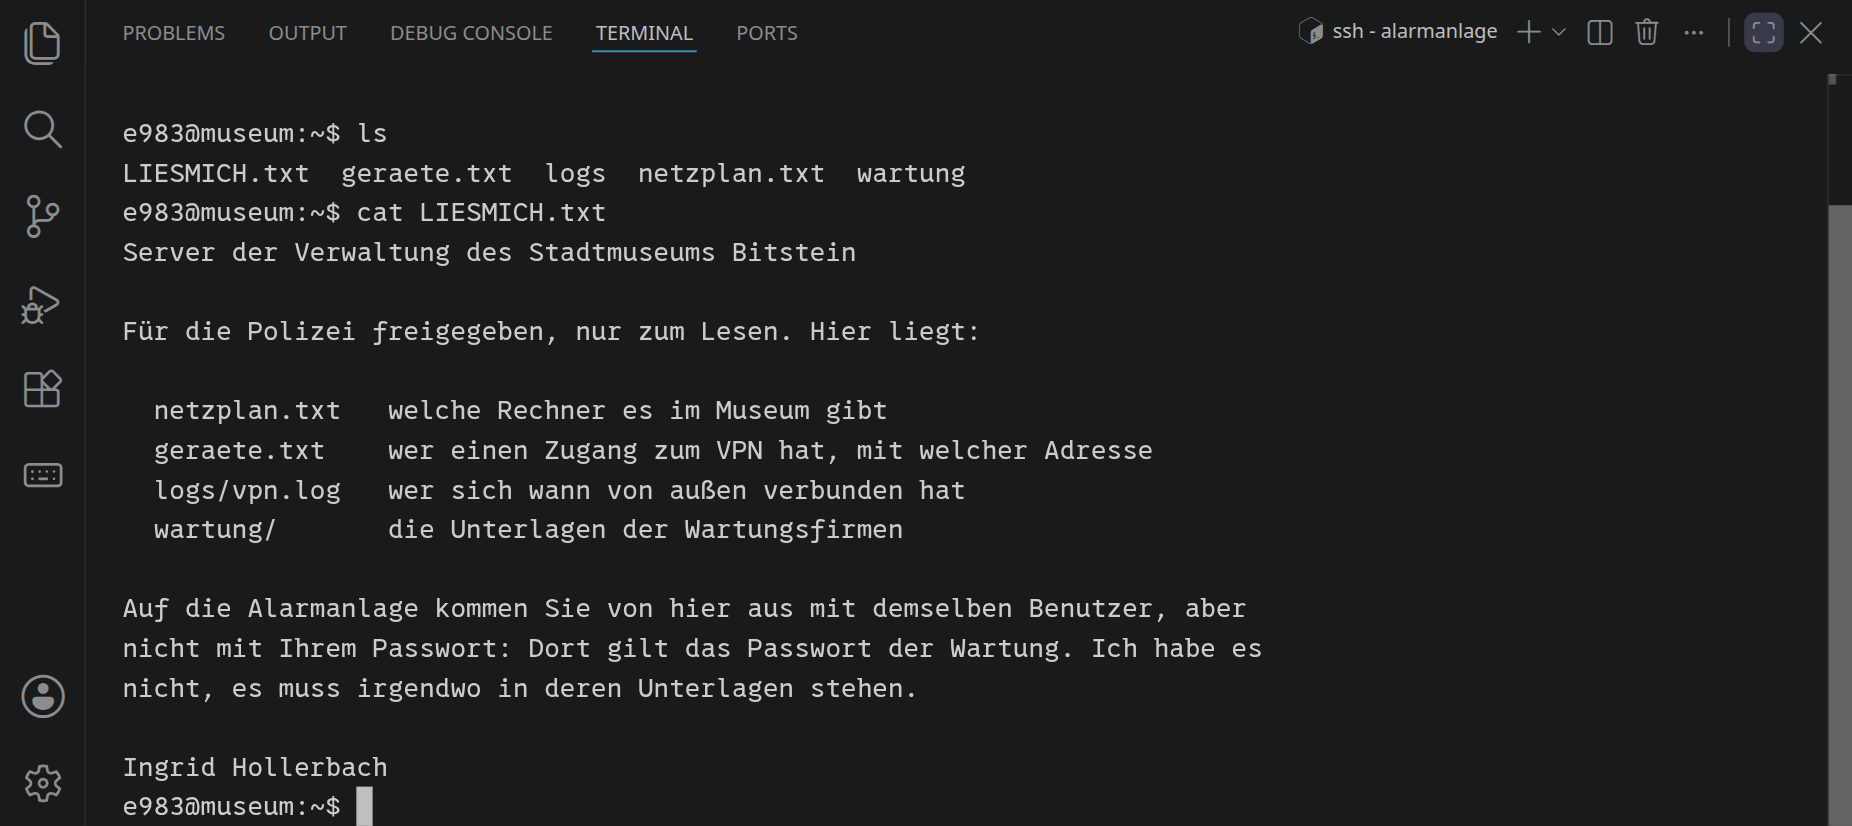
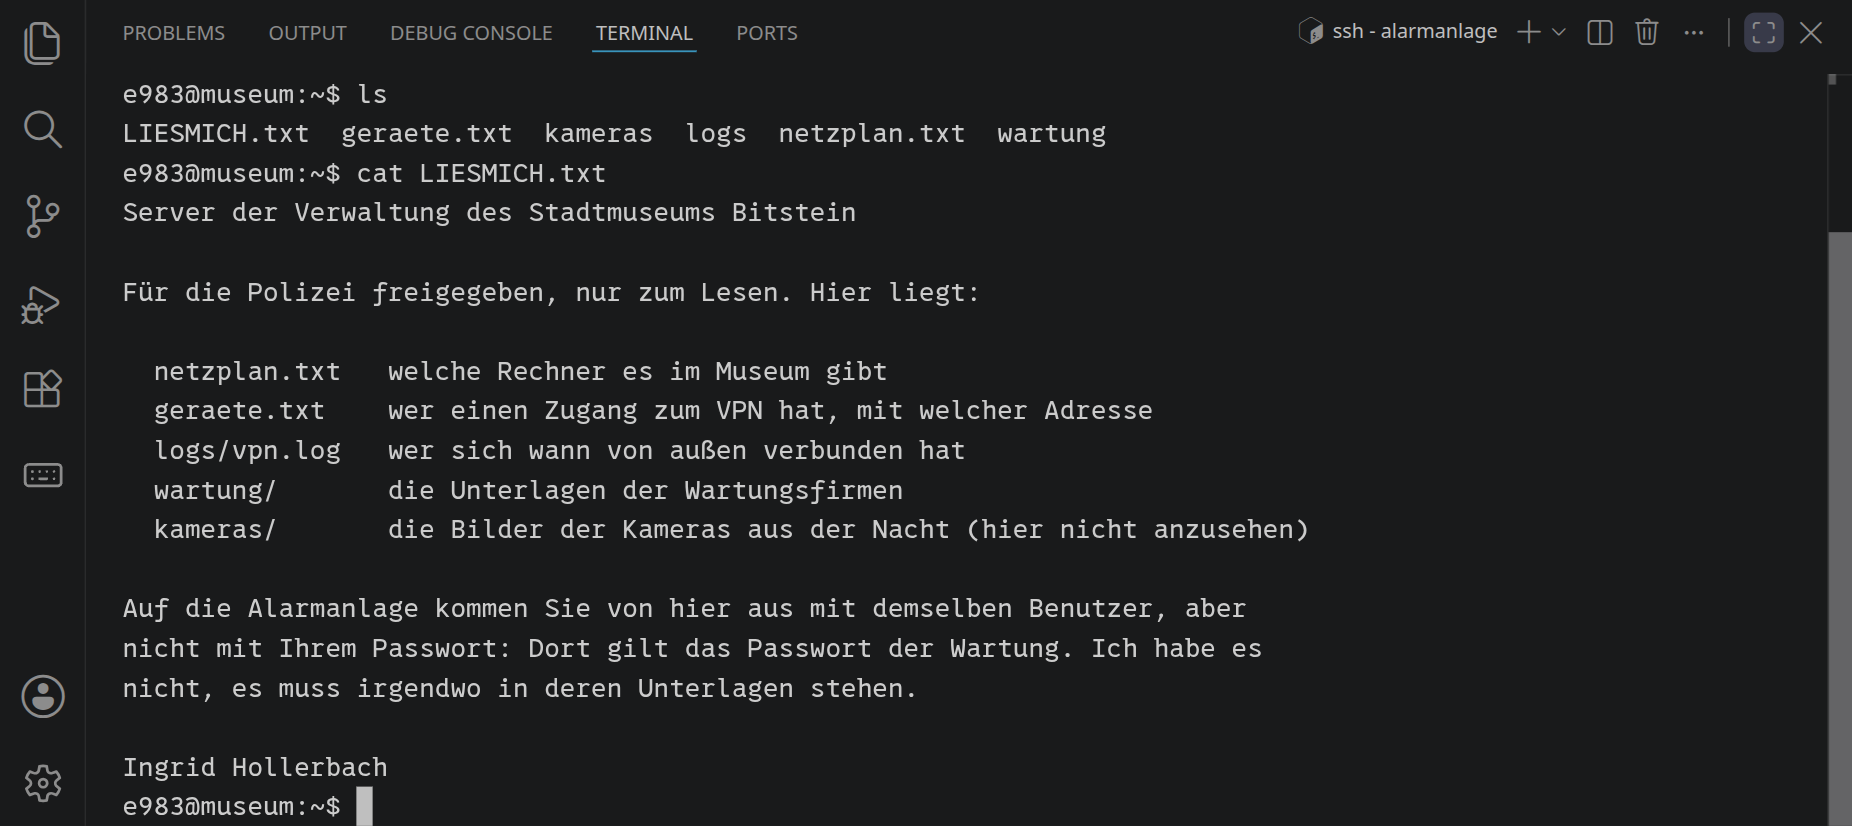
Ein Krimi im Terminal: »Die Kameras«, with scp, wildcards and pictures
A new section after »Beweise sichern«: on museum.bitstein, ls and a time
pattern like cam3_20260314_2338* pick frames from kameras/, scp with the
* in quotes copies them, and VS Code shows them. Two tasks: the frames of
camera 1 in bitstein/kameras/ (files check, with examples), and which of
the four yellow cars camera 3 shows (only BS-KR 2417 is an estate car).

The case image sets each frame's time from its name, so ls -l shows the
night. In the screenshot generator, open-file waits for VS Code's image
preview when it opens a picture instead of a text editor.

diff --git a/src/tutorial-screenshots/server.js b/src/tutorial-screenshots/server.js
@@ -1896,7 +1896,25 @@ async function openFile(relativePath) {
         { timeout: 20_000 },
     );
 
-    await waitForEditorSettled(workspace);
+    if (IMAGE_FILE.test(basename)) await waitForImagePreview(workspace);
+    else await waitForEditorSettled(workspace);
+}
+
+// VS Code shows a picture in its image preview, a webview, not in a text
+// editor. Its content lives in an iframe of another origin, so wait for the
+// visible webview to be ready and give the picture a moment to paint.
+const IMAGE_FILE = /\.(png|jpe?g|gif|webp|bmp|ico)$/i;
+
+async function waitForImagePreview(page) {
+    await page.waitForFunction(
+        () => [...document.querySelectorAll('iframe.webview')].some(frame => {
+            const rect = frame.getBoundingClientRect();
+            return rect.width > 0 && rect.height > 0 && frame.classList.contains('ready');
+        }),
+        null,
+        { timeout: 20_000 },
+    );
+    await page.waitForTimeout(1_500);
 }
 
 async function goLive(hooks) {

diff --git a/src/content/terminal-mystery/beispiele/make_case.rb b/src/content/terminal-mystery/beispiele/make_case.rb
@@ -25,6 +25,8 @@
 #   the cars: Konstantin Reuter and Marlene Voss. alarmanlage/: the commit
 #   »Wartung beendet« deletes two lines of card 4471, which karten.txt gives
 #   to Elektro Reuter. personen.txt: Konstantin Reuter is the electrician.
+#   On museum.bitstein, kameras/ (from cctv/): camera 3 shows a yellow
+#   estate car at 23:38, and of the four cars only BS-KR 2417 is a Kombi.
 require 'fileutils'
 require 'open3'
 require 'tmpdir'
@@ -623,13 +625,7 @@ MUSEUM_README = <<~TEXT
       geraete.txt    wer einen Zugang zum VPN hat, mit welcher Adresse
       logs/vpn.log   wer sich wann von außen verbunden hat
       wartung/       die Unterlagen der Wartungsfirmen
-      kameras/       die Bilder der drei Kameras aus der Nacht, 23 bis 24 Uhr
-
-    Die Kameras nehmen nur auf, wenn sich etwas bewegt, dann alle drei
-    Sekunden ein Bild: cam1 in der Ausstellung, cam2 am Hintereingang, cam3
-    am Parkplatz. Der Name sagt, welche Kamera wann: cam2_20260314_231202.jpg
-    ist Kamera 2 um 23:12:02. Die am Parkplatz springt auch bei Regen an.
-    Ansehen kann ich die Bilder hier nicht, der Server hat keinen Bildschirm.
+      kameras/       die Bilder der Kameras aus der Nacht (hier nicht anzusehen)
 
     Auf die Alarmanlage kommen Sie von hier aus mit demselben Benutzer, aber
     nicht mit Ihrem Passwort: Dort gilt das Passwort der Wartung. Ich habe es

diff --git a/src/content/terminal-mystery/lehrkraft.md b/src/content/terminal-mystery/lehrkraft.md
@@ -1,7 +1,7 @@
 Ein Kriminalfall, der sich nur im Terminal lösen lässt: Aus dem Stadtmuseum Bitstein ist die Goldene Diskette verschwunden, und die Akten sind zu groß zum Durchlesen. Jedes Kapitel bringt ein Werkzeug und setzt es sofort ein: `wc -l`, `grep` mit `^`, `-i`, `-c` und `-l`, `head | tail` für eine bestimmte Zeile, eine Kette aus `grep`, `sort | uniq -d` für die Schnittmenge zweier Listen, `>` und `>>` für Notizen und zum Schluss `git log --author` und `git show` in einem Repository, in dem ein Commit mit harmloser Nachricht zwei Zeilen löscht. Vorausgesetzt werden »Dateien und Verzeichnisse« (`cd`, `ls`, `cat`, `less`) und von »Versionsverwaltung mit Git«, was ein Commit ist. Die Idee stammt aus »The Command Line Murders« von Noah Veltman; Fall, Stadt und Akten sind neu und auf Deutsch.
 
 <table class='table'>
-<tr><th>Ablauf</th><td>Erste Doppelstunde: die Akten, der Tatort mit <code>grep</code>, die Zeugin mit <code>head | tail</code>, der Nachtwächter mit <code>grep -l</code>. Zweite: das Auto, die Vereine, die Alarmanlage mit Git, die Auflösung; danach ein eigener Fall für die Nachbarin oder den Nachbarn. Wer schnell ist, löst alles in einer Doppelstunde.</td></tr>
+<tr><th>Ablauf</th><td>Erste Doppelstunde: die Akten, der Tatort mit <code>grep</code>, die Zeugin mit <code>head | tail</code>, der Nachtwächter mit <code>grep -l</code>. Zweite: das Auto, die Vereine, die Alarmanlage mit Git, die Auflösung; mit dem Fallserver außerdem <code>ssh</code>, <code>scp</code> und die Kameras; danach ein eigener Fall für die Nachbarin oder den Nachbarn. Wer schnell ist, löst alles in einer Doppelstunde.</td></tr>
 <tr><th>Dateien</th><td><code>/workspace/bitstein</code>, entpackt aus <code>bitstein.tar.gz</code> (200 kB, von dieser Installation unter <code>/terminal-mystery/bitstein.tar.gz</code>). <code>beispiele/make_case.rb</code> in diesem Repository baut die Akten aus einem festen Startwert neu und gibt die Zahlen aus, die die Aufgaben brauchen; die Commits der Alarmanlage haben feste Zeiten, ihre Hashes bleiben gleich.</td></tr>
 <tr><th>Prüfung</th><td>Die Befehlsaufgaben führen den eingetippten Befehl im Workspace aus, als Gast in <code>/workspace</code>, und prüfen die Ausgabe: wie viele Zeilen und wie jede aussieht. Ob <code>grep</code>, <code>sed -n 23p</code> oder <code>awk</code>, jeder Weg zur richtigen Ausgabe zählt. Git lässt sich so nicht prüfen (das Repository gehört nicht dem Gast); dort wird die Karte abgefragt.</td></tr>
 </table>
@@ -15,3 +15,5 @@ Ein Kriminalfall, der sich nur im Terminal lösen lässt: Aus dem Stadtmuseum Bi
 **Die Aufgaben.** »Die Hinweise«, »Die Zeugin«, »Das gelbe Auto« und »In beiden Vereinen« sind Befehle, deren Ausgabe geprüft wird; die Rückmeldungen erkennen typische Fehler (das Schild, Hausnummer 32, ein Kennzeichen ohne 7, `uniq -c`). »Groß oder klein« fragt 181 ab, »Der Nachtwächter« die Nummer 1290, »Zwei Verdächtige« ist eine Auswahl, »Die gelöschte Karte« fragt 4471 ab und »Wer war es?« den Namen, mit eigenen Rückmeldungen für Marlene Voss und die anderen Reuters. »Ein eigener Fall« ist eine Abgabe des Ordners `mein-fall`, mit `LIESMICH.txt` und `LOESUNG.txt`. Die Seite zeigt eine Schleife, die Hunderte verschiedener Befragungen aus Listen zusammenwürfelt (Bash-Arrays und `$RANDOM`): So verschwindet die eine Aussage, auf die es ankommt, ohne dass jemand tausend Dateien von Hand schreibt. Mit der `LOESUNG.txt` lässt sich ein Fall nachvollziehen, ohne ihn selbst zu lösen.
 
 **Beweise vom Server.** Hat die Installation den Fallserver eingeschaltet (`CASE_SERVER = true`, docs/entwicklung.md), gibt es ein Kapitel mehr, sonst fehlt es samt seinen Aufgaben. Reuter streitet ab, und die Beweise liegen auf zwei SSH-Servern: Auf `museum.bitstein` zeigt `logs/vpn.log` eine Verbindung der Wartung um 23:02 Uhr von 10.8.0.23, und `geraete.txt` gibt diese Adresse dem Laptop von Elektro Reuter. Die Alarmanlage erreicht man nur über das Museum, mit `ssh` von dort oder mit `ssh -J`, und zwar mit dem Passwort der Wartung, `Leuchtturm-2024`: Es steht im Übergabeprotokoll in `wartung/uebergabe-2025.txt` auf dem Museumsserver (`grep -ri passwort wartung`), gesetzt von Elektro Reuter beim Einbau und nie geändert. Dort ist außerdem noch jemand angemeldet: `who` zeigt `wartung` von 10.8.0.23, dem Laptop von Elektro Reuter, und `ps aux` dessen `rm -i /home/wartung/.bash_history`, das auf ein »yes« wartet. Gelöscht wird nichts: Die Datei und ihr Verzeichnis gehören `root`, und `kill` dürfen Lernende nur ihre eigenen Prozesse; der Prozess läuft für alle gleich, solange der Server läuft. In `/home/wartung/.bash_history` stehen die Befehle der Nacht, minutengenau neben den Commits, darunter `sed -i '/4471/d' zugaenge.log`. Mit `scp -J` landet die Datei als `bitstein/beweis.txt` im Workspace, und die Aufgabe prüft sie dort. Jede Person hat einen eigenen Zugang zum Museumsserver: Wer die Akten in seinem Workspace herunterlädt, findet ihn in `bitstein/zugang-museum.txt`. Fehlt die Datei (die Akten kamen von woanders, oder der Server war noch aus), holt der Befehl auf der Seite sie nach. Beim Passwort erscheint nichts, auch keine Sternchen; das irritiert oft. `scp` gehört in den eigenen Workspace, nicht in eine Verbindung zum Museum. In einer Prüfung gibt es kein Netz und darum auch keinen Zugang.
+
+**Die Kameras.** Auf dem Museumsserver liegen in `kameras/` 66 Bilder dreier Kameras aus der Stunde von 23 bis 24 Uhr, benannt nach Kamera und Zeit (`cam2_20260314_231202.jpg`). Kamera 2 am Hintereingang zeigt jemanden mit Kapuze um 23:12 hereinkommen und um 23:38 hinausgehen, beides direkt nach der Karte 4471; Kamera 1 in der Ausstellung den Diebstahl um 23:31; Kamera 3 am Parkplatz einen gelben Kombi, der ohne Licht ausparkt. Ein Gesicht sieht man nie: Die Bilder belegen die Zeiten und das Auto. Von den vier gelben Autos der Zeugin ist nur `BS-KR 2417` ein Kombi, das von Konstantin Reuter. Kamera 3 springt auch bei Regen an, darum hat sie 49 Bilder; die vier der Minute 23:38 holt `scp 'e123@museum.bitstein:kameras/cam3_20260314_2338*' ~/bitstein/kameras/`. Ohne die Anführungszeichen setzt die eigene Shell das `*` ein, findet nichts und gibt es zum Glück unverändert weiter; das klappt, ist aber Zufall und lohnt eine Frage im Unterricht. Geöffnet werden die Bilder im Explorer von VS Code, nicht im Terminal. Die Bilder entstanden mit ChatGPT, wie, steht in `beispiele/cctv/`.

diff --git a/src/content/terminal-mystery/terminal-mystery.md b/src/content/terminal-mystery/terminal-mystery.md
@@ -368,7 +368,7 @@ wait-for-text: Ingrid Hollerbach
 crop-terminal-lines: auto
 -->
 
-<img class='full' src='ssh-museum.webp' alt='Im Terminal: ssh mit dem eigenen Zugang zu museum.bitstein, die Begrüßung des Servers der Verwaltung, die Eingabeaufforderung mit @museum, darunter ls mit LIESMICH.txt, geraete.txt, logs, netzplan.txt und wartung und der Inhalt von LIESMICH.txt.'>
+<img class='full' src='ssh-museum.webp' alt='Im Terminal: ssh mit dem eigenen Zugang zu museum.bitstein, die Begrüßung des Servers der Verwaltung, die Eingabeaufforderung mit @museum, darunter ls mit LIESMICH.txt, geraete.txt, kameras, logs, netzplan.txt und wartung und der Inhalt von LIESMICH.txt.'>
 
 Die Eingabeaufforderung zeigt jetzt `@museum`: Jeder Befehl läuft dort, nicht in deinem Workspace. `hostname` sagt, auf welchem Rechner du bist, `whoami`, wer du dort bist. Schreiben kannst du hier nichts, lesen alles, mit denselben Werkzeugen wie in Bitstein. `exit` oder <kbd>Strg</kbd><kbd>D</kbd> bringt dich zurück.
 
@@ -467,7 +467,76 @@ check-task-fails: eindringling <- 1
 check-task: eindringling <- 0
 -->
 
-Die Adresse aus dem VPN, das Gerät dazu und die Befehle aus der Nacht, minutengenau neben den Commits: Jetzt ist der Fall wasserdicht.
+### Die Kameras
+
+Bleibt Reuters Ausrede, er sei die ganze Nacht zu Hause gewesen. Im Museum hängen drei Kameras, in der Ausstellung, am Hintereingang und am Parkplatz. Sie nehmen auf, sobald sich etwas bewegt, dann alle drei Sekunden ein Bild, und laut `LIESMICH.txt` liegen ihre Bilder aus der Nacht in `kameras/`. Melde dich am Museum an und sieh nach, wie viele es sind:
+
+```bash
+ls kameras | head -n 4
+ls kameras | wc -l
+```
+
+<!-- tutorial-screenshot
+# Die Bilder der Kameras auf museum.bitstein
+terminal-run: clear
+terminal-run: ssh $CASE_USER@museum.bitstein
+wait-for-text: @museum:~$
+terminal-run: clear
+terminal-run: ls kameras | head -n 4
+terminal-run: ls kameras | wc -l
+terminal-run: ls kameras/cam3_20260314_2301*
+wait-for-text: cam3_20260314_230103.jpg
+crop-terminal-lines: auto
+-->
+
+<img class='full' src='kameras.webp' alt='Im Terminal auf museum.bitstein: die ersten vier Bilder in kameras, von Kamera 1 ab 23:30:58, dann 66 Bilder insgesamt, und ls mit cam3_20260314_2301* nennt zwei Bilder der Kamera 3 aus der Minute 23:01.'>
+
+Der Name jedes Bildes sagt, welche Kamera es wann aufgenommen hat: `cam3_20260314_230100.jpg` ist Kamera 3 am 14. März um 23:01:00. Darum passt `cam3_20260314_2301*` auf alle Bilder der Kamera 3 aus der Minute 23:01: Das `*` steht für jeden Rest des Namens, hier die Sekunden und `.jpg`.
+
+Ein Bild kann das Terminal nicht zeigen, und der Server hat keinen Bildschirm. Hol die Bilder darum mit `scp` in deinen Workspace, wieder mit `exit` zurück und ohne Verbindung zum Museum. Mit einem `*` kommen viele auf einmal, alle Bilder der Kamera 1 etwa:
+
+```bash
+mkdir -p ~/bitstein/kameras
+scp 'e123@museum.bitstein:kameras/cam1_*' ~/bitstein/kameras/
+```
+
+Ohne `/` vorn sucht `scp` den Pfad im Home-Verzeichnis auf dem Museum, dem Ordner mit `LIESMICH.txt`. Die Anführungszeichen schicken das `*` unverändert dorthin: Die Namen der passenden Bilder setzt dann die Shell auf dem Museum ein, nicht deine, in deren Ordnern es diese Bilder noch gar nicht gibt.
+
+_task(kamera-bilder)
+
+<!-- tutorial-step
+terminal-run: exit
+wait-for-text: Connection to museum.bitstein closed
+terminal-run: clear
+terminal-run: mkdir -p ~/bitstein/kameras
+terminal-run: scp "$CASE_USER@museum.bitstein:kameras/cam1_*" ~/bitstein/kameras/
+terminal-wait-for-prompt: 30
+check-task: kamera-bilder
+-->
+
+Im Explorer liegen die Bilder jetzt unter `kameras`, und ein Klick öffnet eins im Editor. Geh sie der Reihe nach durch: Was passiert in der Ausstellung, und wann?
+
+<!-- tutorial-screenshot
+# Ein Bild der Kamera 1 im Editor
+open-file: kameras/cam1_20260314_233118.jpg
+hide-bottom-panel
+-->
+
+<img class='full' src='kamera-bild.webp' alt='VS Code mit einem Bild der Kamera 1 im Editor, schwarzweiß, oben 14.03.2026 23:31:18, unten CAM 1 AUSSTELLUNG: neben der Vitrine kauert eine Person mit Kapuze an ihrer Tasche, die Glashaube steht daneben auf dem Boden.'>
+
+Kamera 3 am Parkplatz springt auch bei Regen an, darum hat sie so viele Bilder. Die Karte hat den Hintereingang um 23:38 geöffnet. Hol von Kamera 3 nur die Bilder aus dieser Minute.
+
+_task(kamera-auto)
+
+<!-- tutorial-step
+terminal-run: scp "$CASE_USER@museum.bitstein:kameras/cam3_20260314_2338*" ~/bitstein/kameras/
+terminal-wait-for-prompt: 30
+check-task: kamera-bilder
+check-task-fails: kamera-auto <- 1
+check-task: kamera-auto <- 0
+-->
+
+Die Adresse aus dem VPN, das Gerät dazu, die Befehle aus der Nacht, minutengenau neben den Commits, und ein gelber Kombi auf dem Parkplatz: Jetzt ist der Fall wasserdicht.
 <!-- /feature -->
 
 ## Ein eigener Fall

diff --git a/CHANGELOG.md b/CHANGELOG.md
@@ -18,6 +18,14 @@ Jeder Eintrag sagt, was sich für Lernende, Lehrkräfte und Betreibende ändert.
 
 ### Hinzugefügt
 
+- »Ein Krimi im Terminal«, mit Fallserver: ein Abschnitt »Die Kameras«. Auf
+  `museum.bitstein` liegen die Bilder dreier Überwachungskameras aus der
+  Tatnacht. Lernende holen sie mit `scp` und einem `*` in ihren Workspace,
+  wählen mit einem Muster wie `cam3_20260314_2338*` die Bilder einer Minute
+  aus und sehen sie in VS Code an: Kamera 3 zeigt, welches der vier gelben
+  Autos es war. Zwei neue Aufgaben. Damit alles zusammenpasst, sieht die
+  Zeugin das Auto jetzt kurz nach halb zwölf, und der Nachtwächter sieht den
+  Täter aus dem Fenster. Wer den Fallserver betreibt, baut `case_museum` neu.
 - »Einführung in SQL«, Teil 2: ein Abschnitt »Wie weit ist es?«. Mit
   `ST_Distance_Sphere` und `CROSS JOIN` rechnen Lernende Entfernungen
   zwischen Städten aus, finden die fünf nächsten Städte zu Hamburg und die
@@ -684,6 +692,10 @@ Jeder Eintrag sagt, was sich für Lernende, Lehrkräfte und Betreibende ändert.
 
 ### Behoben
 
+- Der Fallserver von »Ein Krimi im Terminal«, frisch aus dem Repository
+  gebaut, hatte kein VPN-Protokoll (`logs/vpn.log` fiel unter eine
+  `.gitignore`-Regel), und die Aufgabe »Wer kam in der Nacht?« ließ sich
+  nicht lösen. Wer den Fallserver betreibt, baut `case_museum` neu.
 - BIF: Die Aufgaben »Der Schlüssel« und »Ein Ende« ließen sich im Workspace
   nicht lösen: Die Prüfung erwartete Skripte, Bedingungen und Enden an
   anderer Stelle, als BIF sie in die Analyse der Geschichte schreibt, und las

diff --git a/src/content/terminal-mystery/beispiele/cctv/README.md b/src/content/terminal-mystery/beispiele/cctv/README.md
@@ -17,11 +17,23 @@ machen oder ein Bild zu verbessern.
 
 ## Aufnahmen bauen
 
+`make_case.rb` baut die Aufnahmen mit, nach
+`docker/case-server/files/museum/srv/museum/kameras/`, mit dem Python aus
+`CCTV_PYTHON`:
+
 ```bash
 python3 -m venv /tmp/cctv
 /tmp/cctv/bin/pip install opencv-python-headless pillow numpy
-/tmp/cctv/bin/python src/content/terminal-mystery/beispiele/cctv/build.py /tmp/cctv-frames
+CCTV_PYTHON=/tmp/cctv/bin/python ruby src/content/terminal-mystery/beispiele/make_case.rb
+./config.rb build case_museum && ./config.rb up -d case_museum
 ```
+
+Zum Ansehen allein geht auch `build.py /tmp/cctv-frames`. Die Uhrzeit jeder
+Datei setzt das Image aus ihrem Namen (`docker/case-server/Dockerfile`), so
+dass `ls -l` auf dem Museum die Nacht zeigt.
+
+Die Bilder, die der Regen an Kamera 3 auslöst, sind in `frames.txt` einzeln
+aufgeführt: der leere Parkplatz, bis 23:38 mit dem Auto, danach ohne.
 
 Jede Aufnahme heißt nach Kamera und Zeit, etwa `cam2_20260314_231202.jpg`:
 704×576 Pixel wie ein alter Rekorder, Kamera 1 schwarzweiß (im Dunkeln),

diff --git a/src/tutorial-screenshots/README.md b/src/tutorial-screenshots/README.md
@@ -583,8 +583,10 @@ sheet with its margins, at 200 dpi, for a page that should look like a page
 ### Files and editor state
 
 `open-file` opens a Workspace file through Quick Open and waits for the Monaco
-editor to settle. A file a recipe has just written may take a few seconds to
-appear in Quick Open; `open-file` asks again until it does (up to 30 seconds). `close-tab` closes an editor tab by its exact label and is a
+editor to settle; a picture (`.png`, `.jpg`, `.gif`, `.webp`, …) opens in VS
+Code's image preview instead, and `open-file` waits for its webview. A file a
+recipe has just written may take a few seconds to appear in Quick Open;
+`open-file` asks again until it does (up to 30 seconds). `close-tab` closes an editor tab by its exact label and is a
 no-op when that tab is already closed.
 
 `wait-for-file` waits up to 60 seconds for a file below the screenshot user's

diff --git a/docs/entwicklung.md b/docs/entwicklung.md
@@ -231,7 +231,9 @@ CASE_SERVER = true
   ihr Fingerabdruck nach einem neuen Build gleich bleibt.
 - **Inhalt:** `src/content/terminal-mystery/beispiele/make_case.rb` schreibt
   die Dateien beider Server nach `docker/case-server/files/`; danach die
-  Images neu bauen.
+  Images neu bauen. Die Bilder der Kameras in `kameras/` baut es dabei mit
+  `beispiele/cctv/build.py` aus den Ausgangsbildern daneben; dafür braucht es
+  ein Python mit OpenCV und Pillow, in `CCTV_PYTHON` (`beispiele/cctv/README.md`).
 - **Prüfung:** Im Prüfungsmodus hat ein Workspace kein Netz und bekommt keinen
   Zugang.
 
